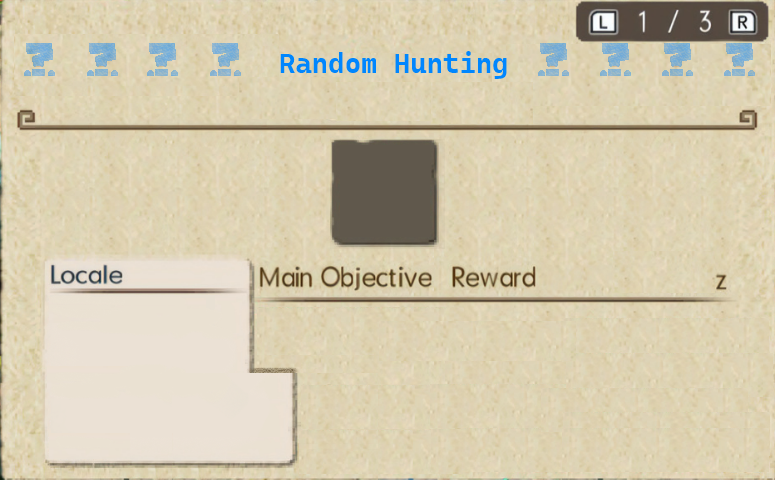
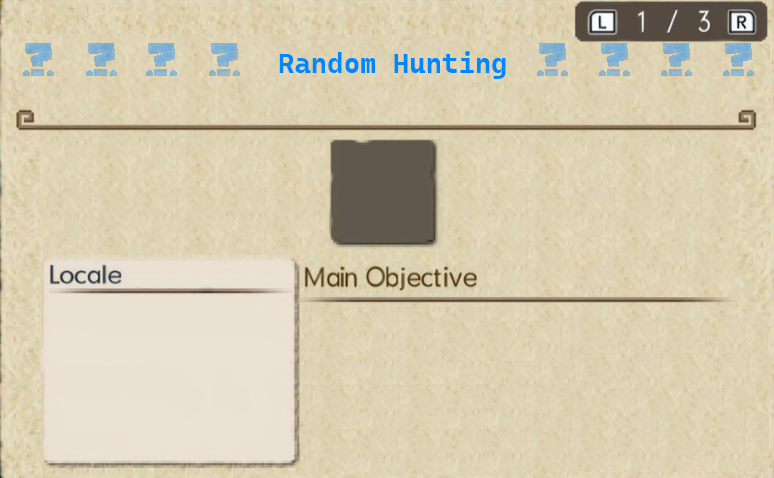
Adjust main objective position, arts font size, result card background

diff --git a/docs/styles.css b/docs/styles.css
@@ -141,7 +141,7 @@ body{
 .r-locale-val{font-size:2.6cqi;font-weight:700;color:#4D391F;line-height:1.3}
 .r-sub{font-size:1.4cqi;color:#4D391F;line-height:1.3;margin-top:4px}
 /* Main objective text in the "Main Objective" area */
-.rc-main{position:absolute;top:62%;left:34%;right:2%;color:#4D391F}
+.rc-main{position:absolute;top:64%;left:40%;right:2%;color:#4D391F}
 .rc-main .r-sub{font-size:2.9cqi;color:#4D391F;margin-top:0}
 /* Loadout in the lower-right "Main Objective" area */
 .rc-loadout{
@@ -154,7 +154,7 @@ body{
 .r-weapon{font-size:2.0cqi;font-weight:700;color:#4D391F}
 .r-style{font-size:2.0cqi;font-weight:700;color:#4D391F}
 .arts{list-style:none;margin:2px 0 0;padding:0;display:flex;flex-direction:column;gap:3px;align-items:flex-start}
-.arts li{font-size:2.2cqi;color:#4D391F;background:rgba(0,0,0,.08);border-radius:3px;padding:3px 6px}
+.arts li{font-size:2.6cqi;color:#4D391F;background:rgba(0,0,0,.08);border-radius:3px;padding:3px 6px}
 .rc-footer{position:absolute;bottom:1%;right:1.5%}
 #copyResultBtn{background:rgba(0,0,0,.15);color:#4D391F;border-color:rgba(0,0,0,.2)}
 